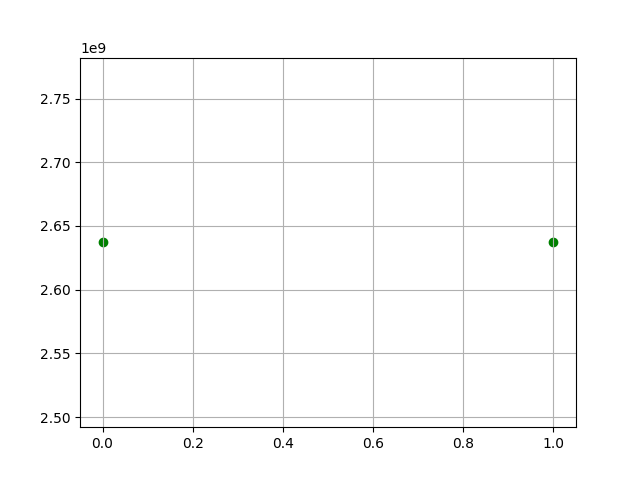
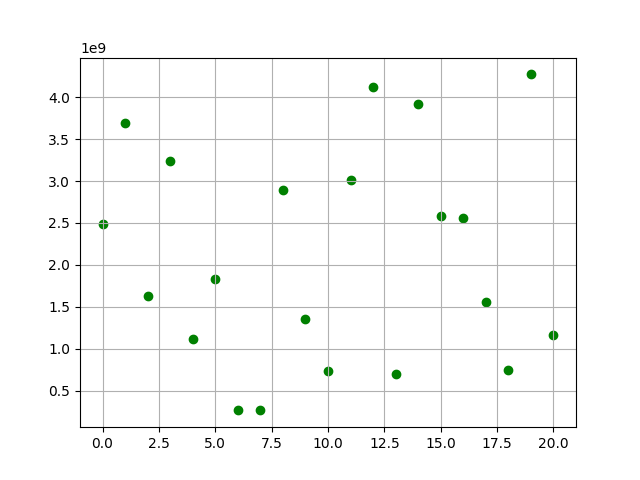
try random values faheadd

diff --git a/test_additivity2.py b/test_additivity2.py
@@ -20,10 +20,10 @@ RESET = "\033[0m"
 LAMBDA_PARAM = 128  # security param (normally 128 or 256)
 M_MAX = 32  # max size of msgs in bits (normally 32 or 64)
 ALPHA = 6  # determines num_additions
-NUM_ADDITIONS = 2**(ALPHA-1) # normally max is usually 2**(ALPHA-1)
-NUM_TRIALS = 2  # how many times you want to test (-1)
+NUM_ADDITIONS = 2**(ALPHA-1)# normally max is usually 2**(ALPHA-1)
+NUM_TRIALS = 21  # how many times you want to test (-1)
 MSG_SIZE = 32  # optional, normally same as M_MAX
-ENCRYPTION_SCHEME = 2  # 1 for FAHE1, 2 for FAHE2, else error
+ENCRYPTION_SCHEME = 1  # 1 for FAHE1, 2 for FAHE2, else error
 SET_MSG = 2364110189  # only in use when populate bool is True
 print(bin(SET_MSG))
 
@@ -177,7 +177,7 @@ def add_fahe1(index: int) -> bool:
     """
 
     # NOTE: You can change msg list params below
-    msg_list = populate_message_list(NUM_ADDITIONS, True, SET_MSG)
+    msg_list = populate_message_list(NUM_ADDITIONS, False, SET_MSG)
     # print("Compiled messages...")
     ciph_list = fahe1_populate_ciph_list(msg_list)
     # print("Encrypted messages...")
@@ -207,7 +207,7 @@ def add_fahe2(index: int) -> bool:
     """
 
     # NOTE: You can change msg list params below
-    msg_list = populate_message_list(NUM_ADDITIONS, True, SET_MSG)
+    msg_list = populate_message_list(NUM_ADDITIONS, False, SET_MSG)
     # print("Compiled messages...")
     # print(len(msg_list))
     # time.sleep(1000)
